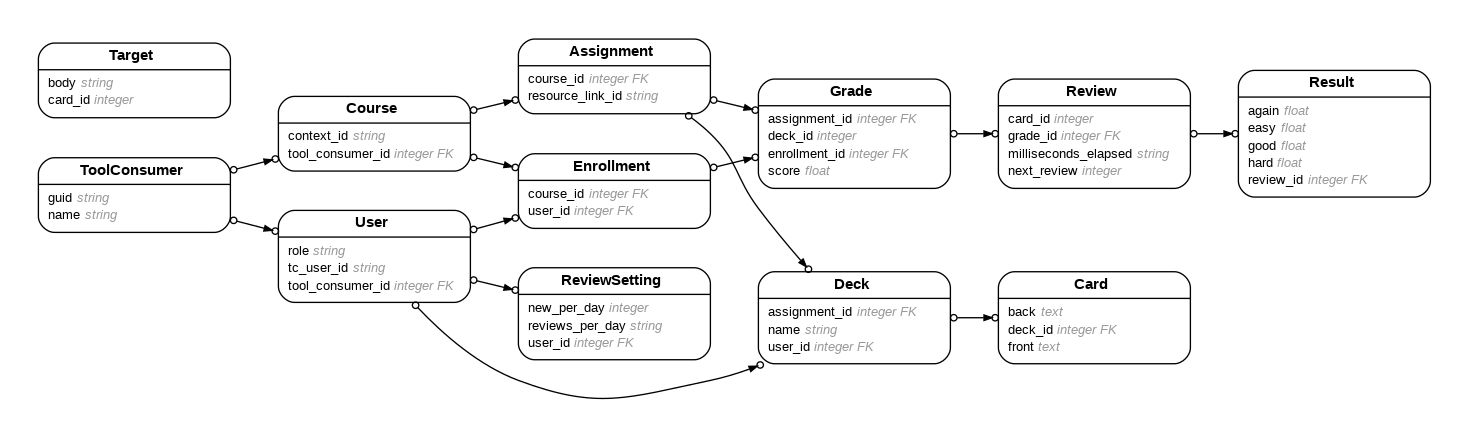
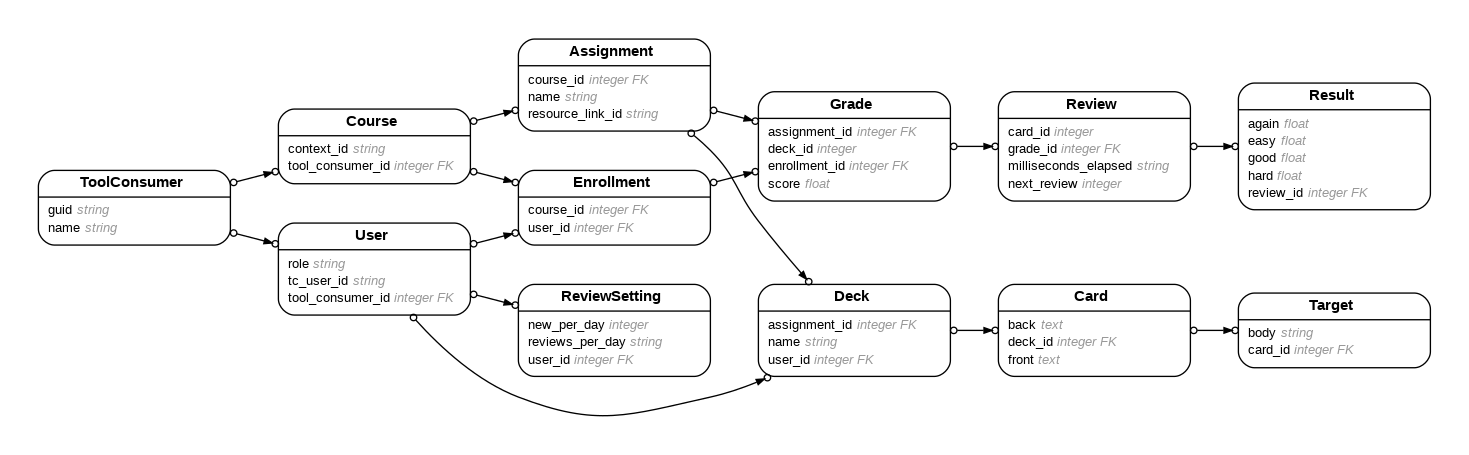
Deck creation now working

diff --git a/app/controllers/lti_controller.rb b/app/controllers/lti_controller.rb
@@ -39,13 +39,10 @@ class LtiController < ApplicationController
     @tool_consumer = ToolConsumer.find_or_create_by(guid: params[:tool_consumer_instance_guid])
     @user = User.create_with(tool_consumer_id: @tool_consumer.id, role: params[:roles]).find_or_create_by(tc_user_id: params[:user_id])
     @course = Course.create_with(tool_consumer_id: @tool_consumer.id).find_or_create_by(context_id: params[:context_id])
-    @assignment = Assignment.create_with(course_id: @course.id).find_or_create_by(resource_link_id: params[:resource_link_id])
+    @assignment = Assignment.create_with(course_id: @course.id, name: params[:resource_link_title]).find_or_create_by(resource_link_id: params[:resource_link_id])
     
-    # Store the user in the session
-    session[:user_id] = @user.id
-
     # redirect the user to the assignment
-    redirect_to assignment_url(@assignment)
+    redirect_to assignment_url(@assignment, :user_id => @user.id)
   end
 
   def submitscore

diff --git a/app/models/user.rb b/app/models/user.rb
@@ -10,8 +10,8 @@
 #  updated_at       :datetime         not null
 #
 class User < ApplicationRecord
-  # has_many(:decks, { :class_name => "Deck", :foreign_key => "user_id", :dependent => :destroy })
-  # has_one(:review_setting, { :class_name => "ReviewSetting", :foreign_key => "user_id", :dependent => :destroy })
+  has_many(:decks, { :class_name => "Deck", :foreign_key => "user_id", :dependent => :destroy })
+  has_one(:review_setting, { :class_name => "ReviewSetting", :foreign_key => "user_id", :dependent => :destroy })
   has_many(:enrollments, { :class_name => "Enrollment", :foreign_key => "user_id", :dependent => :destroy })
   belongs_to(:tool_consumer, { :required => false, :class_name => "ToolConsumer", :foreign_key => "tool_consumer_id" })
 

diff --git a/app/models/card.rb b/app/models/card.rb
@@ -10,8 +10,8 @@
 #  updated_at :datetime         not null
 #
 class Card < ApplicationRecord
-  # has_one(:target, { :class_name => "Target", :foreign_key => "card_id", :dependent => :destroy })
-  # has_many(:reviews, { :class_name => "Review", :foreign_key => "card_id", :dependent => :destroy })
-  # belongs_to(:deck, { :required => false, :class_name => "Deck", :foreign_key => "deck_id" })
+  has_one(:target, { :class_name => "Target", :foreign_key => "card_id", :dependent => :destroy })
+  has_many(:reviews, { :class_name => "Review", :foreign_key => "card_id", :dependent => :destroy })
+  belongs_to(:deck, { :required => false, :class_name => "Deck", :foreign_key => "deck_id" })
   
 end

diff --git a/app/controllers/decks_controller.rb b/app/controllers/decks_controller.rb
@@ -1,5 +1,8 @@
 class DecksController < ApplicationController
   before_action :set_deck, only: %i[ show edit update destroy ]
+  #Added this because kept getting error with invalid authenticity token. 
+  #Suspect issue might be the use the app within the tool consumer window
+  skip_before_action :verify_authenticity_token, :only => [:create, :update, :destroy]
 
   # GET /decks or /decks.json
   def index
@@ -13,6 +16,8 @@ class DecksController < ApplicationController
   # GET /decks/new
   def new
     @deck = Deck.new
+    @deck.assignment = Assignment.find_by_id(params[:assignment_id])
+    @deck.user = User.find_by_id(params[:user_id])
   end
 
   # GET /decks/1/edit

diff --git a/app/models/review.rb b/app/models/review.rb
@@ -11,8 +11,8 @@
 #  updated_at           :datetime         not null
 #
 class Review < ApplicationRecord
-  # belongs_to(:card, { :required => false, :class_name => "Card", :foreign_key => "card_id" })
-  # has_one(:result, { :class_name => "Result", :foreign_key => "review_id", :dependent => :destroy })
+  belongs_to(:card, { :required => false, :class_name => "Card", :foreign_key => "card_id" })
+  has_one(:result, { :class_name => "Result", :foreign_key => "review_id", :dependent => :destroy })
   belongs_to(:grade, { :required => false, :class_name => "Grade", :foreign_key => "grade_id" })
 
 end

diff --git a/app/models/grade.rb b/app/models/grade.rb
@@ -13,6 +13,6 @@
 class Grade < ApplicationRecord
   belongs_to(:enrollment, { :required => false, :class_name => "Enrollment", :foreign_key => "enrollment_id" })
   belongs_to(:assignment, { :required => false, :class_name => "Assignment", :foreign_key => "assignment_id" })
-  # has_many(:reviews, { :class_name => "Review", :foreign_key => "grade_id", :dependent => :destroy })
+  has_many(:reviews, { :class_name => "Review", :foreign_key => "grade_id", :dependent => :destroy })
 
 end

diff --git a/app/models/assignment.rb b/app/models/assignment.rb
@@ -10,7 +10,7 @@
 #
 class Assignment < ApplicationRecord
   belongs_to(:course, { :required => false, :class_name => "Course", :foreign_key => "course_id" })
-  # has_many(:decks, { :class_name => "Deck", :foreign_key => "assignment_id", :dependent => :destroy })
+  has_many(:decks, { :class_name => "Deck", :foreign_key => "assignment_id", :dependent => :destroy })
   has_many(:grades, { :class_name => "Grade", :foreign_key => "assignment_id", :dependent => :destroy })
 
 end

diff --git a/db/schema.rb b/db/schema.rb
@@ -18,6 +18,7 @@ ActiveRecord::Schema.define(version: 2021_05_31_220739) do
   create_table "assignments", force: :cascade do |t|
     t.integer "course_id"
     t.string "resource_link_id"
+    t.string "name"
     t.datetime "created_at", precision: 6, null: false
     t.datetime "updated_at", precision: 6, null: false
   end

diff --git a/db/migrate/20210521011517_create_assignments.rb b/db/migrate/20210521011517_create_assignments.rb
@@ -3,6 +3,7 @@ class CreateAssignments < ActiveRecord::Migration[6.1]
     create_table :assignments do |t|
       t.integer :course_id
       t.string  :resource_link_id
+      t.string  :name
 
       t.timestamps
     end

diff --git a/app/controllers/assignments_controller.rb b/app/controllers/assignments_controller.rb
@@ -8,6 +8,7 @@ class AssignmentsController < ApplicationController
 
   # GET /assignments/1 or /assignments/1.json
   def show
+    @user = User.find_by_id(params[:user_id])
   end
 
   # GET /assignments/new
